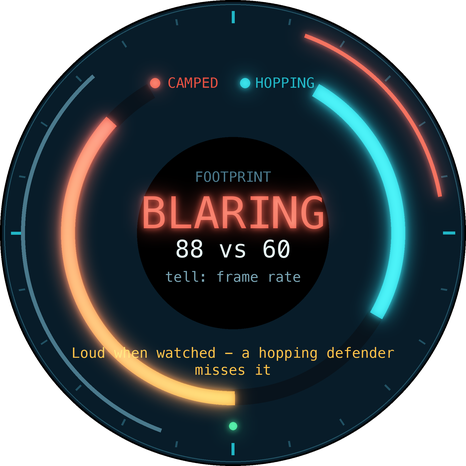
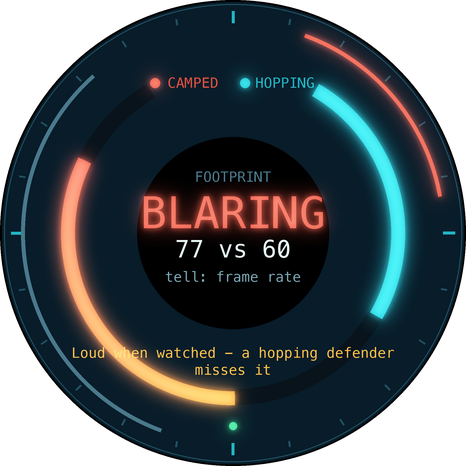
feat(ui): rebuild the Watch face around one job per element
The old screen showed a big number, a band word, two dense monospace stat
lines and three anonymous dots. The number was fine. The dots said 'three
families' without saying WHICH; the stat lines packed four unrelated
quantities into one string; and the advice sentence was word-wrapped into the
gauge ring, where it collided with the arc at exactly the moment it mattered.

Now: one ring answers how bad, a sixteen-second ribbon answers what shape over
time, four labelled pips answer on what evidence, one unwrapped line answers
what to do. Nothing wraps, nothing overlaps, and the bounds check caught the
ribbon poking through the glass on the first attempt, which is what it is for.

The ribbon is the new idea and it earns its place: a steady trickle and one
violent burst produce the same ten-second mean and are not the same event.

Three screens now render from the real engine - camped 77/96 FLOOD LIKELY,
the same stream hopping 60/60 SUSPICIOUS with the ceiling tick sitting right
on the score, and the proven-forgery scenario 88/88 while hopping.

Changed region(s): [[0.1502, 0.2403, 0.2704, 0.3605], [0.3605, 0.5107, 0.4506, 0.5708]]

diff --git a/tools/render/pharos_render.c b/tools/render/pharos_render.c
@@ -378,28 +378,114 @@ static void screen_lamp_room(void)
     rim_status(78, C_CYAN);
 }
 
-/* ---- screen: the Watch gauge ----------------------------------------- */
+/* ---- screen: the Watch gauge -----------------------------------------
+ *
+ * The redesign, and the reasoning behind each decision:
+ *
+ *   The old screen showed a big number, a band word, two dense monospace stat
+ *   lines and three anonymous dots. The number was fine. Everything else asked
+ *   the operator to do work: the dots said "three families" without saying
+ *   WHICH, the stat lines packed four unrelated quantities into one string,
+ *   and the advice sentence was word-wrapped into the gauge ring, where it
+ *   collided with the arc at exactly the moment it mattered most.
+ *
+ *   So: one ring answers "how bad", one ribbon answers "what shape, over
+ *   time", four labelled pips answer "on what evidence", and one unwrapped
+ *   line answers "what do I do". Nothing wraps. Nothing overlaps. Every
+ *   element has one job.
+ */
 
-/* The gauge's one-line summary. Deliberately consistent with, and shorter
- * than, pw_band_advice() - the full sentence is shown on the lens info card
- * where there is room for it. */
+/* The gauge's one-line fallback, used when no forgery test has a specific
+ * finding to report. Deliberately shorter than pw_band_advice(): the full
+ * sentence lives on the lens info card, where there is room for it. */
 static const char *hud_summary(pw_band_t band)
 {
     switch (band) {
     case PW_BAND_QUIET:      return "Nothing in view. One channel at a time.";
     case PW_BAND_BACKGROUND: return "Normal roaming and idle timeouts.";
     case PW_BAND_ELEVATED:   return "More than housekeeping. Camp to sharpen.";
-    case PW_BAND_SUSPICIOUS: return "Evidence thin. Camp here to confirm.";
-    case PW_BAND_LIKELY:     return "Broad, spoofed deauth. Preserve the log.";
+    case PW_BAND_SUSPICIOUS: return "Shape is wrong, nothing proves it yet.";
+    case PW_BAND_LIKELY:     return "Sustained forged deauth. Keep the log.";
     default:                 return "";
+    }
+}
+
+/* Sixteen radial bars around the top of the dial: one per second of the
+ * engine's own window, height proportional to that second's disconnect count.
+ *
+ * This is the single most useful thing a round screen can carry here. A steady
+ * trickle and one violent burst produce the same ten-second average and are
+ * not the same event; the mean cannot tell them apart and this shows it at a
+ * glance. The scale is per-screen (tallest bar is full height) with the peak
+ * printed, because the shape is the point and the absolute number is already
+ * in the stats line. */
+static void watch_history(const uint16_t *hist, unsigned n, const char *col)
+{
+    uint16_t peak = 0;
+    for (unsigned i = 0; i < n; i++) {
+        if (hist[i] > peak) peak = hist[i];
+    }
+
+    /* r_base + r_max must stay inside PR_SAFE_R (224) - the bounds check in
+     * this file is what caught the first attempt at 196+30 poking through the
+     * glass, which is exactly what it is for. */
+    const int r_base = 184;   /* inner end of every bar   */
+    const int r_max  = 34;    /* tallest a bar may grow   */
+    const float span = 140.0f; /* degrees of arc the ribbon occupies */
+    const float a0 = -span / 2.0f;
+
+    /* A baseline under the bars, so the ribbon reads as a timeline with quiet
+     * stretches rather than as a handful of stray marks. Without it, sixteen
+     * seconds of silence followed by a burst looks like a rendering fault
+     * instead of like the most informative thing on the screen. */
+    arc(PR_CX, PR_CY, r_base - 4, 2, a0, span, "#16303F");
+
+    for (unsigned i = 0; i < n; i++) {
+        const float a = a0 + span * ((float)i + 0.5f) / (float)n;
+        const int h = peak ? (int)(((long)hist[i] * r_max) / peak) : 0;
+        pr_point_t p0 = pr_polar((int16_t)r_base, a);
+        /* An empty second still draws a 2 px stub, so the ribbon reads as a
+         * timeline with gaps rather than as a shorter timeline. */
+        pr_point_t p1 = pr_polar((int16_t)(r_base + (h > 5 ? h : 5)), a);
+        if (h > 0) {
+            glowline(p0.x, p0.y, p1.x, p1.y, 7, col);
+        } else {
+            line(p0.x, p0.y, p1.x, p1.y, 7, "#16303F");
+        }
+    }
+}
+
+/* The four evidence families, named. A lit pip means that family met its own
+ * threshold and is contributing; a dark one means it is not. Naming them is
+ * the entire improvement over three unlabelled dots: "why does it think so"
+ * is answerable from the glass instead of from the manual. */
+static void watch_families(const pw_verdict_t *v, const char *col)
+{
+    static const struct { uint8_t bit; const char *label; } fam[4] = {
+        { PW_FAM_RATE,      "RATE"  },
+        { PW_FAM_SHAPE,     "SHAPE" },
+        { PW_FAM_FORGERY,   "FORGE" },
+        { PW_FAM_AFTERMATH, "AFTER" },
+    };
+    const int w = 74, gap = 8, h = 26;
+    const int total = 4 * w + 3 * gap;
+    const int top = PR_CY + 112;
+
+    for (unsigned i = 0; i < 4; i++) {
+        const int x = PR_CX - total / 2 + (int)i * (w + gap);
+        const bool lit = (v->families & fam[i].bit) != 0;
+        roundrect(x, top, w, h, 6, lit ? "#12283A" : "#0A1620");
+        text(x + w / 2, top + h / 2 + 5, 13, 'c', lit ? col : C_DENIED,
+             fam[i].label);
     }
 }
 
 /* Renders one Watch verdict. The camped/hopping pair is generated from the
  * *identical* event stream, which is the whole argument of the project made
  * visible: same evidence, different entitlement to claim it. */
-static void screen_watch(const char *name, const pw_verdict_t *v, const char *mode,
-                         int dwell_pct)
+static void screen_watch(const char *name, const pw_verdict_t *v,
+                         const uint16_t *hist, unsigned nhist,
+                         const char *mode_short, int dwell_pct)
 {
     screen(name);
     panel_base();
@@ -407,86 +493,116 @@ static void screen_watch(const char *name, const pw_verdict_t *v, const char *mo
 
     const char *col = band_colour(v->score);
 
-    /* The evidence gauge: 270 degrees starting at 7 o'clock. */
+    /* --- the activity ribbon, on the rim where it does not crowd anything -- */
+    watch_history(hist, nhist, col);
+
+    /* --- the score arc: 270 degrees starting at 7 o'clock ---------------- */
     const float A0 = 225.0f, SWEEP = 270.0f;
-    const uint8_t comps[4] = { v->c_rate, v->c_target, v->c_identity, v->c_reason };
-    pd_gauge_t g;
-    pd_gauge_layout(comps, 4, v->score, v->ceiling, A0, SWEEP, &g);
+    const int R = PR_RING_R - 14;
 
-    /* Recessed track: two tones give the groove a little depth. */
-    arc(PR_CX, PR_CY, PR_RING_R - 8, 16, A0, SWEEP, "#08131C");
-    arc(PR_CX, PR_CY, PR_RING_R - 8, 12, A0, SWEEP, "#12283A");
+    arc(PR_CX, PR_CY, R, 20, A0, SWEEP, "#08131C");
+    arc(PR_CX, PR_CY, R, 16, A0, SWEEP, "#12283A");
+    /* One colour, fading up out of the track. The old cyan-to-band gradient
+     * read as if the first half of the score were somehow benign; it is one
+     * number and it should look like one. */
+    garc(PR_CX, PR_CY, R, 16, A0, SWEEP * (float)v->score / 100.0f, "#1B3A4E", col);
 
-    /* Component arcs. Earned families glow (gradient toward the band colour);
-     * denied ones stay dim, so the operator sees what observation quality cost
-     * them without it competing for attention. */
-    static const char *fam_col[4] = { C_CYAN, C_CYAN_HI, C_AMBER, C_ORANGE };
-    unsigned fam = 0;
-    for (unsigned i = 0; i < g.n_arcs; i++) {
-        const pd_arc_t *a = &g.arcs[i];
-        if (a->denied) {
-            arc(PR_CX, PR_CY, PR_RING_R - 8, 14, a->start_deg, a->sweep_deg, C_DENIED);
-        } else {
-            garc(PR_CX, PR_CY, PR_RING_R - 8, 14, a->start_deg, a->sweep_deg,
-                 fam_col[fam % 4], col);
-            fam++;
-        }
+    /* What the caps took away, as a thin inner trace. The old screen drew
+     * this as a second fat arc behind the score, where it read as a bug -
+     * two bars of the same weight saying different numbers. Thin, inset and
+     * dim, it reads as what it is: the score this evidence would have earned
+     * if the receiver had been entitled to claim it. */
+    if (v->raw_score > v->score) {
+        arc(PR_CX, PR_CY, R - 22, 4, A0, SWEEP * (float)v->raw_score / 100.0f,
+            "#2A4257");
     }
 
-    /* The ceiling tick: a hard stop the score may not pass. Its label goes
-     * *inside* the gauge ring - outside, it would sit among the rim ticks and
-     * fight the bezel for attention at exactly the angles it matters most. */
+    /* The ceiling: a hard stop the score may not pass, drawn as a tick across
+     * the arc rather than as a competing band of colour. */
     {
-        /* The ceiling is a glowing red tick on the arc; its number goes in the
-         * stats line below rather than floating free, where it used to collide
-         * with the dwell readout at high ceilings. */
-        pr_point_t t0 = pr_polar((int16_t)(PR_RING_R + 3), g.ceiling_deg);
-        pr_point_t t1 = pr_polar((int16_t)(PR_RING_R - 22), g.ceiling_deg);
+        const float a = A0 + SWEEP * (float)v->ceiling / 100.0f;
+        pr_point_t t0 = pr_polar((int16_t)(R + 14), a);
+        pr_point_t t1 = pr_polar((int16_t)(R - 14), a);
         glowline(t0.x, t0.y, t1.x, t1.y, 3, C_RED);
     }
 
-    /* Core: score and band. The big number blooms - it is the one thing the
-     * eye should land on first. */
-    disc(PR_CX, PR_CY, PR_CORE_R + 4, C_VOID);
+    /* --- the core: the reading ------------------------------------------- */
+    disc(PR_CX, PR_CY, PR_CORE_R + 6, C_VOID);
+    ring(PR_CX, PR_CY, PR_CORE_R + 6, 1, "#12283A");
+
+    /* Context first, in small type: what is under pressure, where, and how
+     * hard this receiver is actually looking. The posture used to live on the
+     * top rim, which is where the activity ribbon now is - and a text run and
+     * a bar chart sharing an arc is how you get a screen that looks broken. */
+    {
+        char buf[48];
+        if (v->ssid[0]) {
+            snprintf(buf, sizeof(buf), "%.14s", v->ssid);
+        } else if (v->channel) {
+            snprintf(buf, sizeof(buf), "CH %u  %s", v->channel, mode_short);
+        } else {
+            snprintf(buf, sizeof(buf), "%s", mode_short);
+        }
+        text(PR_CX, PR_CY - 52, 13, 'c', C_DIMMER, buf);
+    }
     {
         char buf[16];
         snprintf(buf, sizeof(buf), "%u", v->score);
-        glowtext(PR_CX, PR_CY - 12, 64, 'c', col, buf);
+        glowtext(PR_CX, PR_CY - 4, 62, 'c', col, buf);
     }
-    glowtext(PR_CX, PR_CY + 30, 20, 'c', col, pw_band_name(v->band));
-    text(PR_CX, PR_CY - 54, 14, 'c', C_DIMMER, "DEAUTH WATCH");
-
-    /* Below the core: the mode that produced this reading. */
+    /* The band word is what a person actually reads, so it gets the widest
+     * type the core can hold without touching the ring. */
     {
-        char buf[48];
-        snprintf(buf, sizeof(buf), "%s  dwell %d%%", mode, dwell_pct);
-        text(PR_CX, PR_CY + 82, 14, 'c', C_DIM, buf);
+        const char *word = pw_band_name(v->band);
+        const int size = fit_text_at(PR_CX, PR_CY + 44, (unsigned)strlen(word),
+                                     PR_CORE_R + 2, 22);
+        text(PR_CX, PR_CY + 44, size ? size : 14, 'c', col, word);
     }
+
+    /* --- the supporting numbers, one line, no packing -------------------- */
+    /* Three quantities, three separators, no packing. Sized and placed to
+     * clear the score arc's inner edge: at this height the arc occupies
+     * |x| >= 131, so the run may not be wider than 262. */
     {
         char buf[64];
-        snprintf(buf, sizeof(buf), "%u.%u/s  %u obs  ceil %u", v->est_per_s_x100 / 100,
-                 (v->est_per_s_x100 / 10) % 10, v->observed, v->ceiling);
-        text(PR_CX, PR_CY + 102, 14, 'c', C_DIMMER, buf);
+        snprintf(buf, sizeof(buf), "%u seen  -  %u/s  -  ceil %u", v->observed,
+                 v->est_per_s_x100 / 100, v->ceiling);
+        text(PR_CX, PR_CY + 88, 13, 'c', C_DIM, buf);
     }
 
-    /* Families as three pips: a fired family glows, an unlit one is a hole. */
-    for (unsigned i = 0; i < 3; i++) {
-        const int x = PR_CX - 26 + (int)i * 26;
-        if (v->families & (1u << i)) {
-            glowdot(x, PR_CY + 124, 6, col);
-        } else {
-            dot(x, PR_CY + 124, 6, C_DENIED);
+    /* --- the evidence ---------------------------------------------------- */
+    watch_families(v, col);
+
+    /* --- one line of what to do, never wrapped --------------------------- */
+    {
+        /* Prefer the specific finding over the generic advice: "sequence
+         * counter went backwards" tells an operator something that
+         * "the shape looks wrong" does not. */
+        const char *why = pw_forgery_name(v->forgery);
+        const char *line_s = why ? why : hud_summary(v->band);
+        const unsigned cap = pd_label_capacity(13, 158, PR_SAFE_R - 8);
+        char buf[64];
+        snprintf(buf, sizeof(buf), "%.*s", (int)(cap < sizeof(buf) - 1 ? cap
+                                                                       : sizeof(buf) - 1),
+                 line_s);
+        text(PR_CX, PR_CY + 158, 13, 'c', why ? col : C_DIM, buf);
+    }
+
+    /* The ribbon's own scale, printed once where it cannot be mistaken for a
+     * reading: this is what the tallest bar means. */
+    {
+        uint16_t peak = 0;
+        for (unsigned i = 0; i < nhist; i++) {
+            if (hist[i] > peak) peak = hist[i];
         }
+        char buf[24];
+        snprintf(buf, sizeof(buf), "peak %u", peak);
+        text(PR_CX, PR_CY - 128, 12, 'c', C_DIMMER, buf);
     }
-
-    /* The HUD carries a one-line summary; the engine's full advice text lives
-     * on the info card, because 466 round pixels cannot hold 120 characters
-     * and truncating a sentence mid-clause is exactly the sort of quiet
-     * dishonesty this project is trying not to commit. */
-    wrap(146, 14, C_DIM, hud_summary(v->band), 2);
 
     rim_status(74, col);
 }
+
 
 /* ---- screen: Census list --------------------------------------------- */
 
@@ -667,12 +783,45 @@ static void watch_pair(void)
     pw_evaluate(&eng, last, &camped, &vc);
     pw_evaluate(&eng, last, &hopping, &vh);
 
-    screen_watch("watch_camped", &vc, "CAMPED ch6", 100);
-    screen_watch("watch_hopping", &vh, "HOPPING 1-13", 7);
+    uint16_t hist[PW_WINDOW_SLOTS];
+    pw_history(&eng, last, hist);
+
+    screen_watch("watch_camped", &vc, hist, PW_WINDOW_SLOTS, "CAMPED", 100);
+    screen_watch("watch_hopping", &vh, hist, PW_WINDOW_SLOTS, "HOPPING", 8);
 
     fprintf(stderr, "  watch: camped=%u/%u %s   hopping=%u/%u %s\n",
             vc.score, vc.ceiling, pw_band_name(vc.band),
             vh.score, vh.ceiling, pw_band_name(vh.band));
+
+    /* The companion: the same kind of attack against a network that requires
+     * protected management frames, graded from a HOPPING receiver. The
+     * contradiction is not weakened by the short visit, so this one is
+     * entitled to alarm where the flood above is not. */
+    {
+        pr_range_t r2;
+        pr_config_t c2;
+        memset(&c2, 0, sizeof(c2));
+        c2.scenario = PR_SCENARIO_DEAUTH_PROVEN;
+        c2.seed = 0xBEEF;
+        c2.intensity = 800;
+        pr_range_init(&r2, &c2);
+
+        pw_engine_t e2;
+        pw_reset(&e2);
+        pharos_event_t ev2;
+        uint64_t last2 = 0;
+        while (pr_range_next(&r2, &ev2)) {
+            pw_observe(&e2, &ev2.u.dot11, ev2.t_us);
+            last2 = ev2.t_us;
+        }
+        pw_verdict_t vp;
+        pw_evaluate(&e2, last2, &hopping, &vp);
+        uint16_t h2[PW_WINDOW_SLOTS];
+        pw_history(&e2, last2, h2);
+        screen_watch("watch_proven", &vp, h2, PW_WINDOW_SLOTS, "HOPPING", 8);
+        fprintf(stderr, "  watch: proven(hopping)=%u/%u %s  forgery=0x%02x\n",
+                vp.score, vp.ceiling, pw_band_name(vp.band), vp.forgery);
+    }
 }
 
 static void karma_screen(void)

diff --git a/components/pharos_engine/pharos_watch.c b/components/pharos_engine/pharos_watch.c
@@ -380,6 +380,32 @@ uint8_t pw_pressure_channel(const pw_engine_t *e, uint64_t now_us,
     return best_n ? best : 0;
 }
 
+void pw_history(const pw_engine_t *e, uint64_t now_us,
+                uint16_t out[PW_WINDOW_SLOTS])
+{
+    if (!out) {
+        return;
+    }
+    memset(out, 0, sizeof(uint16_t) * PW_WINDOW_SLOTS);
+    if (!e) {
+        return;
+    }
+    const uint32_t now_sec = (uint32_t)(now_us / 1000000ull);
+    for (unsigned i = 0; i < PW_WINDOW_SLOTS; i++) {
+        /* out[0] is the oldest second in the window, out[n-1] is now. A slot
+         * whose stamp does not match the second it would represent was never
+         * written in this window and is genuinely zero, not missing. */
+        const uint32_t want = now_sec + 1u + i - PW_WINDOW_SLOTS;
+        if (want > now_sec) {
+            continue; /* the device has not been up this long */
+        }
+        const pw_slot_t *s = &e->slots[want % PW_WINDOW_SLOTS];
+        if (s->sec == want) {
+            out[i] = (uint16_t)(s->disconnects > 0xFFFFu ? 0xFFFFu : s->disconnects);
+        }
+    }
+}
+
 /* ---- scoring -------------------------------------------------------- */
 
 void pw_evaluate(const pw_engine_t *e, uint64_t now_us, const pw_context_t *ctx,

diff --git a/components/pharos_engine/include/pharos_watch.h b/components/pharos_engine/include/pharos_watch.h
@@ -312,6 +312,17 @@ uint8_t pw_ceiling(const pw_context_t *ctx);
 uint8_t pw_pressure_channel(const pw_engine_t *e, uint64_t now_us,
                             uint32_t window_ms);
 
+/* The last PW_WINDOW_SLOTS seconds of disconnect counts, oldest first, with
+ * seconds that were never written filled in as zero.
+ *
+ * A single score answers "is this happening"; the history answers "what shape
+ * is it", which is the question an operator actually asks next. A steady
+ * trickle and a single violent burst can produce the same ten-second mean and
+ * they are not the same event. The engine already keeps these slots to do its
+ * own arithmetic - this only lets the screen show them. */
+void pw_history(const pw_engine_t *e, uint64_t now_us,
+                uint16_t out[PW_WINDOW_SLOTS]);
+
 const char *pw_band_name(pw_band_t band);
 const char *pw_band_advice(pw_band_t band);
 /* One short line naming the strongest forgery test that fired, for the UI.
